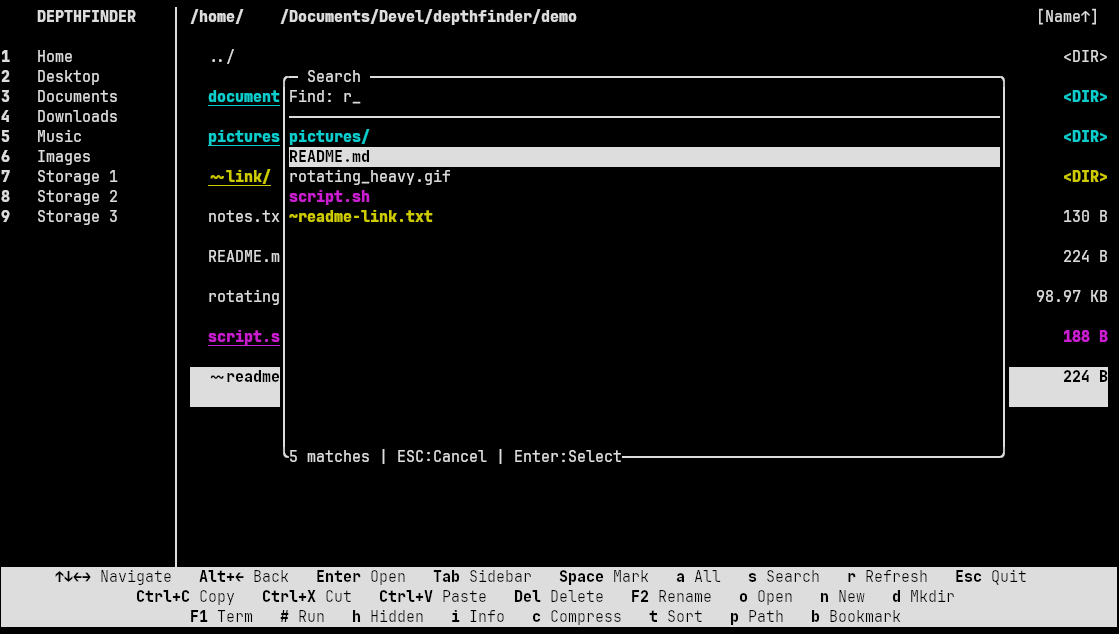
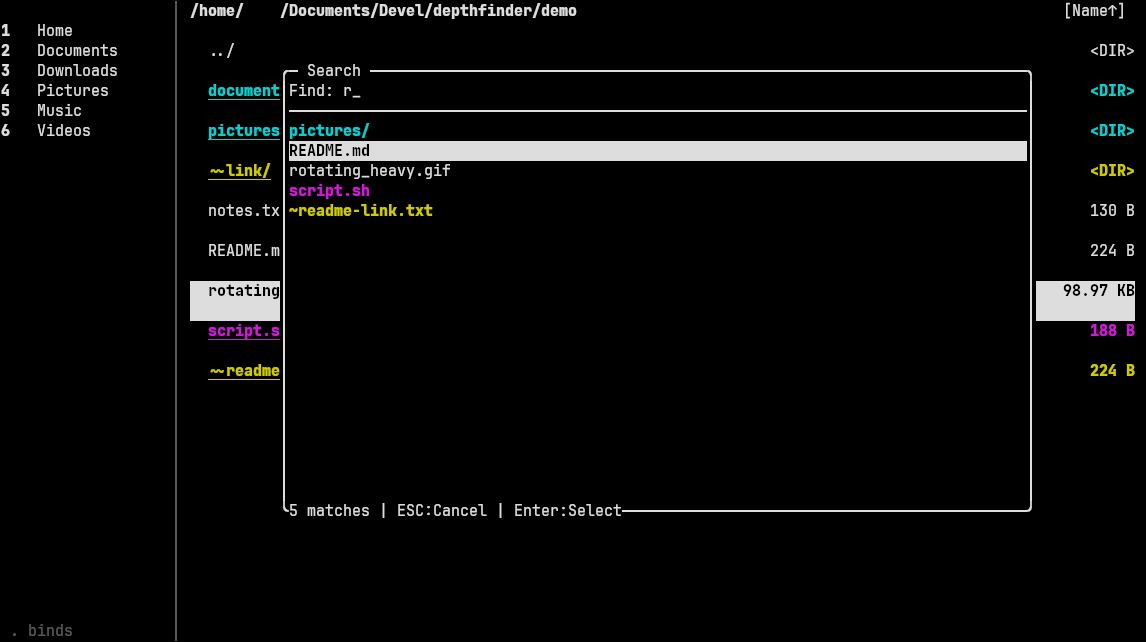
update screenshots

diff --git a/README.md b/README.md
@@ -21,15 +21,16 @@ depthfinder is primarily meant to operate in a terminal emulator on top of an X1
 
 <p align="left">
 	<img src="media/screensh_browser.png" alt="File Browser" width="512">
-	<img src="media/screensh_marked.png" alt="Marked Files" width="512">
+	<img src="media/screensh_keybinds.png" alt="File Browser with Keybinds Bar" width="512">
 </p>
 
 <p align="left">
+    <img src="media/screensh_marked.png" alt="Marked Files" width="512">
 	<img src="media/screensh_search.png" alt="Search" width="512">
-	<img src="media/screensh_info.png" alt="File Info" width="512">
 </p>
 
 <p align="left">
+	<img src="media/screensh_info.png" alt="File Info" width="512">
 	<img src="media/screensh_sort.png" alt="Sort Menu" width="512">
 </p>
 
